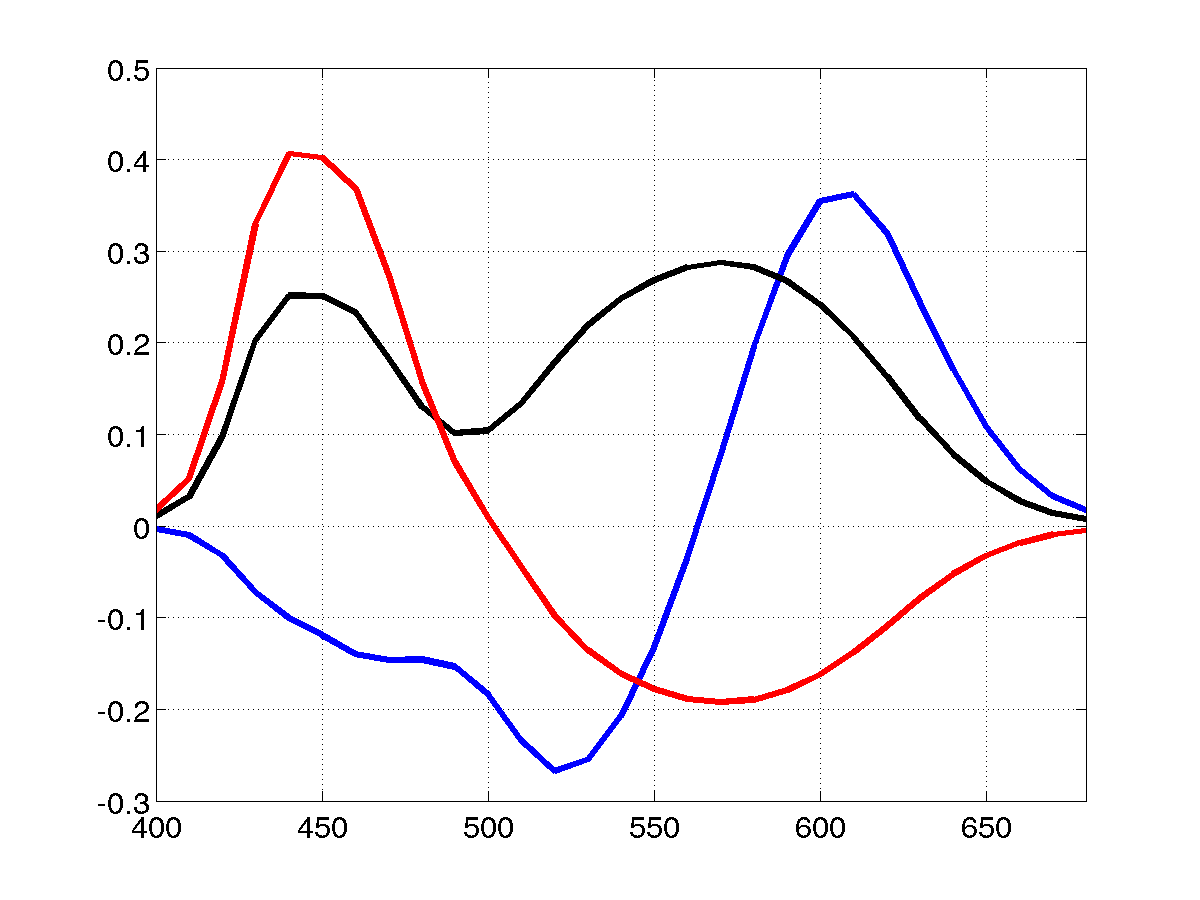
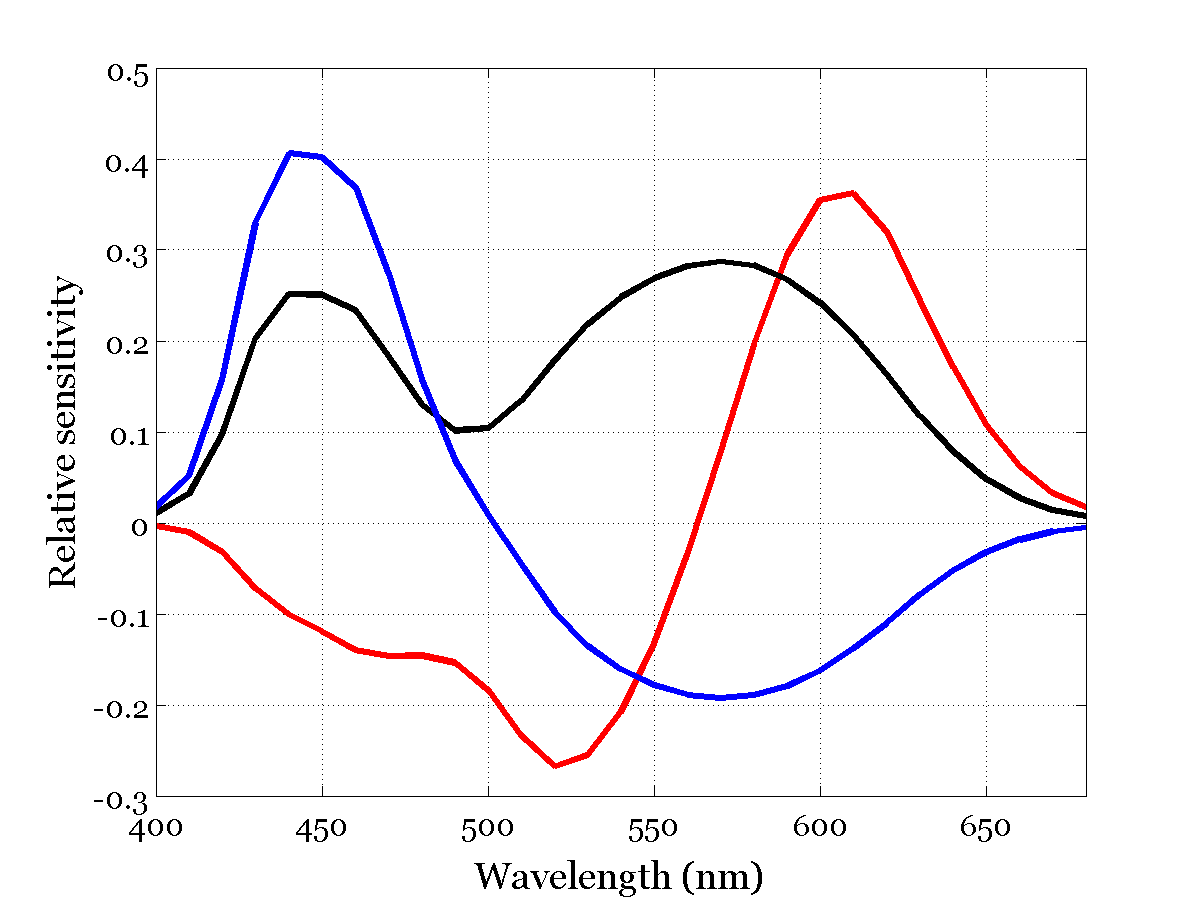
Minor edits for clarity on SPIE figure scripts. Comments in L3findweight ... and L3Init ..., though I think more work will be required there because of the pixel size and fill factor issue.

diff --git a/spie2013/figure6/s_SPIEFigure6.m b/spie2013/figure6/s_SPIEFigure6.m
@@ -3,55 +3,82 @@
 % This script trains L3 with bias and variance tradeoff for differnt
 % luminance and chrominance weights for RGBW CFA for SPIE2013 paper 
 % figure 6.  
-% 
-%
 %
 % (c) Stanford VISTA Team
 
 %% Start ISET
-s_initISET
+% s_initISET
 
-%% Train L3 and create L3 camera
-% Skip this step if the camera is pre-trained and stored.
+%% Initialize parameters
 
-for chromaWeight = [1, 16]
-    for lumaWeight = [1, 16]
-        % Create and initialize L3 structure
-        L3 = L3Initialize();  % use default parameters
+forceTrain = false; % If you insist on training the 4 cameras, set true
+
+chromaWeight = [1,16];  % Weights for regularization
+lumaWeight   = [1,16];
+
+% Set up camera file names for these weights
+cameraFile = cell(length(lumaWeight),length(chromaWeight));
+for jj=1:length(chromaWeight)
+    for ii = 1:length(lumaWeight)
+        cameraFile{ii,jj} = ['L3Camera_lw' num2str(lumaWeight(ii)) '_cw' num2str(chromaWeight(jj)),'.mat'];
+    end
+end
         
-        % Use same weights for global, flat and texture 
-        weights = [chromaWeight, lumaWeight, chromaWeight]; 
-        L3 = L3Set(L3, 'global weight bias variance', weights);
-        L3 = L3Set(L3, 'flat weight bias variance', weights);
-        L3 = L3Set(L3, 'texture weight bias variance', weights);
+%% Check whether Training for L3 is required.
+
+for jj=1:length(chromaWeight)
+    for ii=1:length(lumaWeight)
         
-        % Perform training
-        L3 = L3Train(L3);
-        
-        camera = L3CameraCreate(L3);
-        saveFile = ['L3Camera_lw' num2str(lumaWeight) '_cw' num2str(chromaWeight)];
-        save(saveFile, 'camera'); % save camera
+        % Skip the training if the camera is already stored.
+        if ~exist(cameraFile{ii,jj},'file') || forceTrain
+            
+            fprintf('*** Training camera %s\n',cameraFile{ii,jj});
+            
+            % Create and initialize L3 structure
+            L3 = L3Initialize();  % use default parameters
+            
+            % Use same weights for global, flat and texture
+            weights = [chromaWeight, lumaWeight, chromaWeight];
+            L3 = L3Set(L3, 'global weight bias variance', weights);
+            L3 = L3Set(L3, 'flat weight bias variance', weights);
+            L3 = L3Set(L3, 'texture weight bias variance', weights);
+            
+            % Perform training
+            L3 = L3Train(L3);
+            
+            camera = L3CameraCreate(L3);
+            cameraFile = ['L3Camera_lw' num2str(lumaWeight) '_cw' num2str(chromaWeight)];
+            save(cameraFile, 'camera'); % save camera
+        else
+            fprintf('*** Found camera %s\n',cameraFile{ii,jj});
+        end
     end
 end
 
+
 %% Render images
+
 % Load scene
-scene = sceneFromFile('/biac4/wandell/data/qytian/L3Project/scene/AsianWoman_1.mat', 'multispectral');
+scene = sceneFromFile(fullfile(L3rootpath,'spie2013','data','AsianWoman_1.mat'), 'multispectral');
 sz = sceneGet(scene, 'size');
 meanLum = 1;
 
 % Load camera and render images
-for chromaWeight = [1, 16]
-    for lumaWeight = [1, 16]
-        loadFile = ['L3Camera_lw' num2str(lumaWeight) '_cw' num2str(chromaWeight)];
-        load(loadFile, 'camera');
+for jj=1:length(chromaWeight)
+    for ii=1:length(lumaWeight)
+        
+        load(cameraFile{ii,jj}, 'camera');
+        
+        % Compute, which produces both the ideal and noisy version.
         srgbResult = cameraComputesrgb(camera, scene, meanLum, sz);
-        saveFile = ['srgbResult_lw' num2str(lumaWeight) '_cw' num2str(chromaWeight) '.png'];
+        
+        % Save the files for the paper
+        saveFile = ['srgbResult_lw' num2str(lumaWeight(ii)) '_cw' num2str(chromaWeight(jj)) '.png'];
         imwrite(srgbResult, saveFile);
     end
 end
 
-
+%%
 
 
 

diff --git a/spie2013/figure5/s_SPIEFigure5.m b/spie2013/figure5/s_SPIEFigure5.m
@@ -1,31 +1,62 @@
 %% s_SPIEFigure5
 %
-% This script shows the learned linear operators for low, medium and high 
-% response levels for RGBW CFA for SPIE2013 paper figure 5.  
-% 
-%
+% This script shows the learned linear operators for low, medium and high
+% response levels for RGBW CFA for SPIE2013 paper figure 5.  These Global
+% filter reflects the general principle of L3
 %
 % (c) Stanford VISTA Team
 
 %% Start ISET
 s_initISET
 
-%% Show linear operators
+%% Set up the learned camera parameters
+
 load(fullfile(L3rootpath,'cameras','L3','L3camera_RGBW1.mat')); % load the trained L3 camera
 L3 = cameraGet(camera, 'L3');
 sz = L3Get(L3,'blocksize'); 
 r = sz(1); 
 c = sz(2);
 
-% Global filter reflects the general principle of L3
+%% The filter for the lowest response level
 filters = L3Get(L3,'globalfilter',[1, 1], 1, 1); % low response, no saturation
-filters = L3Get(L3,'globalfilter',[1, 1], 14, 1); % medium response, no saturation
-filters = L3Get(L3,'globalfilter',[1, 1], 18, 2); % high response, W saturation
 
+vcNewGraphWin([],'tall');
+subplot(3,1,1)
 hfig = imagesc(reshape(filters(1, :)/max(filters(1, :)), r, c));
 axis image
 colormap(gray)
-impixelregion(hfig); % display the filter with coefficients on top
+title('Lowest response level')
 
+h = impixelregion(hfig); % display the filter with coefficients on top
+set(h,'name','Lowest level coefficients')
+set(h,'Units','normalized'); wPos = get(h,'Position');
+set(h,'Position',[.25 .75 wPos(3) wPos(4)]);
 
+%% The filter for the middle response level
+filters = L3Get(L3,'globalfilter',[1, 1], 14, 1); % medium response, no saturation
+subplot(3,1,2)
+hfig = imagesc(reshape(filters(1, :)/max(filters(1, :)), r, c));
+axis image
+colormap(gray)
+title('Middle response level')
 
+h = impixelregion(hfig); % display the filter with coefficients on top
+set(h,'name','Middle level coefficients')
+set(h,'Units','normalized'); wPos = get(h,'Position');
+set(h,'Position',[.25 .5 wPos(3) wPos(4)]);
+
+%% The filter for the highest response level
+filters = L3Get(L3,'globalfilter',[1, 1], 18, 2); % high response, W saturation
+
+subplot(3,1,3)
+hfig = imagesc(reshape(filters(1, :)/max(filters(1, :)), r, c));
+axis image
+colormap(gray)
+title('Highest response level')
+
+h = impixelregion(hfig); % display the filter with coefficients on top
+set(h,'name','Highest level coefficients')
+set(h,'Units','normalized'); wPos = get(h,'Position');
+set(h,'Position',[.25 .25 wPos(3) wPos(4)]);
+
+%%

diff --git a/spie2013/figure7/s_SPIEFigure7.m b/spie2013/figure7/s_SPIEFigure7.m
@@ -3,43 +3,52 @@
 % This script trains L3 for Bayer and RGB/W (with bias and variance 
 % tradeoff) and compare results for low light and high light for SPIE2013 
 % paper figure 6.  
-% 
-%
 %
 % (c) Stanford VISTA Team
 
 %% Start ISET
-s_initISET
+% s_initISET
 
 %% Load pre-trained cameras
+
+% The standard Bayer camera
 load(fullfile(L3rootpath,'cameras','L3','L3camera_Bayer.mat')); 
 L3camera_Bayer = camera;
 L3camera_Bayer = cameraSet(L3camera_Bayer, 'name', 'L3camera_Bayer');
 
+% The RGB/W camera
 load(fullfile(L3rootpath,'cameras','L3','L3camera_RGBW1.mat')); 
 L3camera_RGBW = camera;
 L3camera_RGBW = cameraSet(L3camera_RGBW, 'name', 'L3camera_RGBW');
 
 %% Load scene
-scene = sceneFromFile('/biac4/wandell/data/qytian/L3Project/scene/AsianWoman_1.mat', 'multispectral');
+% I wonder if we could put the woman at a URL and download from there?
+scene = sceneFromFile(fullfile(L3rootpath,'spie2013','data','AsianWoman_1.mat'), 'multispectral');
 sz = sceneGet(scene, 'size');
 
-%% Render images
+%% Render images, save them, and also put them in a single window.
+
+f = vcNewGraphWin;
 luminances = [1, 80];
+loop = 0;
 for lum = luminances
     srgbResult_Bayer = cameraComputesrgb(L3camera_Bayer, scene, lum, sz);
+    figure(f); subplot(2,2,1 + loop); imagescRGB(srgbResult_Bayer);
+    
     srgbResult_RGBW = cameraComputesrgb(L3camera_RGBW, scene, lum, sz);
+    figure(f); subplot(2,2,3 + loop); imagescRGB(srgbResult_Bayer);
     
     saveFile = ['srgbResult_Bayer_lum' num2str(lum) '.png'];
     imwrite(srgbResult_Bayer, saveFile);
     
     saveFile = ['srgbResult_RGBW_lum' num2str(lum) '.png'];
     imwrite(srgbResult_RGBW, saveFile);
+    
+    loop = loop + 1;
  end
  
- 
- 
- 
+
+ %%
  
  
  

diff --git a/spie2013/figure4/s_SPIEFigure4.m b/spie2013/figure4/s_SPIEFigure4.m
@@ -2,16 +2,14 @@
 %
 % This script computes and plots the new opponent color space depends on 
 % D65 illuminant (we call it WCbCr) for SPIE2013 paper figure 4.  
-% 
-%
 %
 % (c) Stanford VISTA Team
 
 %% Start ISET
 s_initISET
 
-%% Find conversion matrix  
-A = L3findweightcolortransform(); % from XYZ to WCbCr
+%% Find conversion matrix from XYZ to WcbCr
+A = L3findweightcolortransform(); 
 
 %% Compute WCbCr basis function
 wavelength = 400 : 10 : 680; 
@@ -19,18 +17,18 @@ XYZ = vcReadSpectra('XYZQuanta', wavelength); % read XYZ data
 WCbCr = A * XYZ';
 
 %% Plot WvCbCr basis function
-plot(wavelength, WCbCr(1, :), 'b', 'LineWidth', 3)
+vcNewGraphWin;
+plot(wavelength, WCbCr(1, :), 'r', 'LineWidth', 3)
 hold on
 plot(wavelength, WCbCr(2, :), 'k', 'LineWidth', 3)
-plot(wavelength, WCbCr(3, :), 'r', 'LineWidth', 3)
-grid on
+plot(wavelength, WCbCr(3, :), 'b', 'LineWidth', 3)
+
 xlim([min(wavelength), max(wavelength)])
+grid on
+xlabel('Wavelength (nm)');
+ylabel('Relative sensitivity')
+
 set(gca,'fontsize',15)
 saveas(gcf, 'WCbCr.png');
 
-
-
-
-
-
-
+%%

diff --git a/scripts/s_L3TrainCamerasforCFAs.m b/scripts/s_L3TrainCamerasforCFAs.m
@@ -2,12 +2,14 @@
 %
 % This script trains and creates L3 cameras for a series of CFAs.
 %
-% For each camera all parameters are identical except the CFA that is used.
-% All parameters are specified in L3TrainCameraforCFA.
+% For each camera all parameters are identical except a different CFA that
+% is used. All parameters are specified in the function
+% L3TrainCameraforCFA.
 %
 % (c) Stanford VISTA Team
 
-s_initISET
+%%
+% s_initISET
 
 %% File locations
 % An L3 camera will be trained for each of the .mat files in the following
@@ -31,3 +33,5 @@ for cfaFilenum = 1:length(cfaFiles)
     saveFile = fullfile(saveFolder, ['L3camera_', cfaFile]);
     save(saveFile, 'camera')
 end
+
+%%

diff --git a/training/init/L3InitMonochromeSensor.m b/training/init/L3InitMonochromeSensor.m
@@ -29,7 +29,8 @@ sensorM = sensorSet(sensorM,'quantization method','analog');
 %% Initialize pixel parameters 
 pixel = sensorGet(sensorM,'pixel');
 pixel = pixelSet(pixel,'spectralQE',ones(length(wave),1));
-pixel = pixelSet(pixel,'size',[2.2e-6 2.2e-6]);                % Pixel Size in meters
+
+pixel = pixelSet(pixel,'size constant fill factor',[2.2e-6 2.2e-6]); % Pixel Size in meters
 pixel = pixelSet(pixel,'conversion gain', 2.0000e-004);        % Volts/e-
 pixel = pixelSet(pixel,'voltage swing', 1.8);                  % Volts/e-
 pixel = pixelSet(pixel,'dark voltage', 1e-005);                % units are volts/sec

diff --git a/training/L3findweightcolortransform.m b/training/L3findweightcolortransform.m
@@ -4,12 +4,10 @@ function A = L3findweightcolortransform()
 %
 %  A = L3findweightcolortransform()
 %
-%
 % Output:
 %   A: color transform matrix described below
 %      This is generally set using:  
 %           L3 = L3Set(L3, 'weight color transform', A)
-%
 %
 % Let Cx, Cy, Cz be XYZ measurements of a spectra, S (expressed in quanta):
 %   [Cx; Cy; Cz] = XYZ' * S
